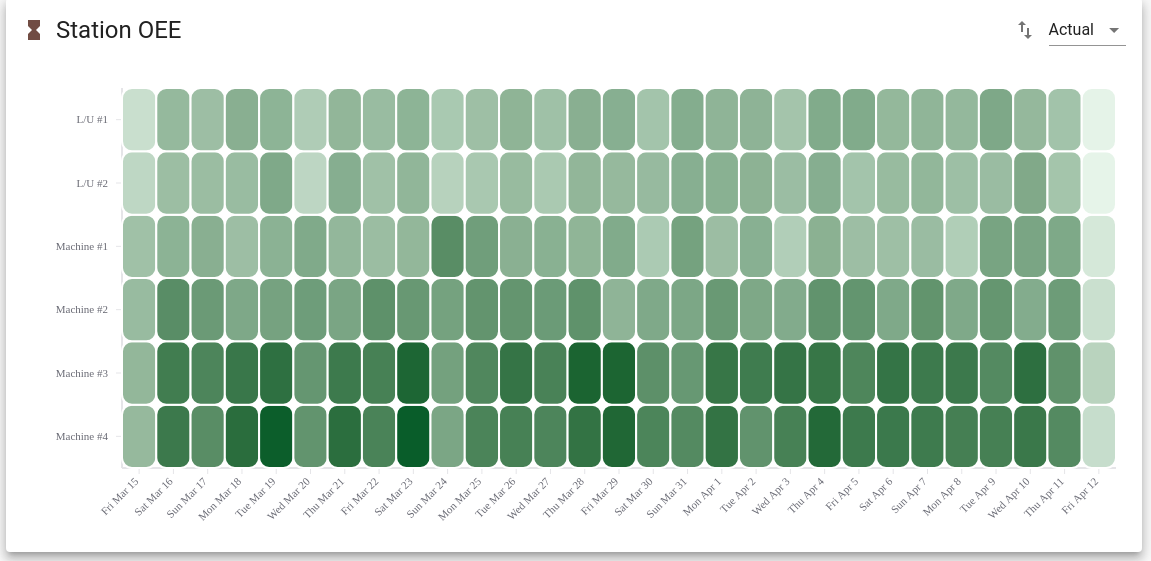
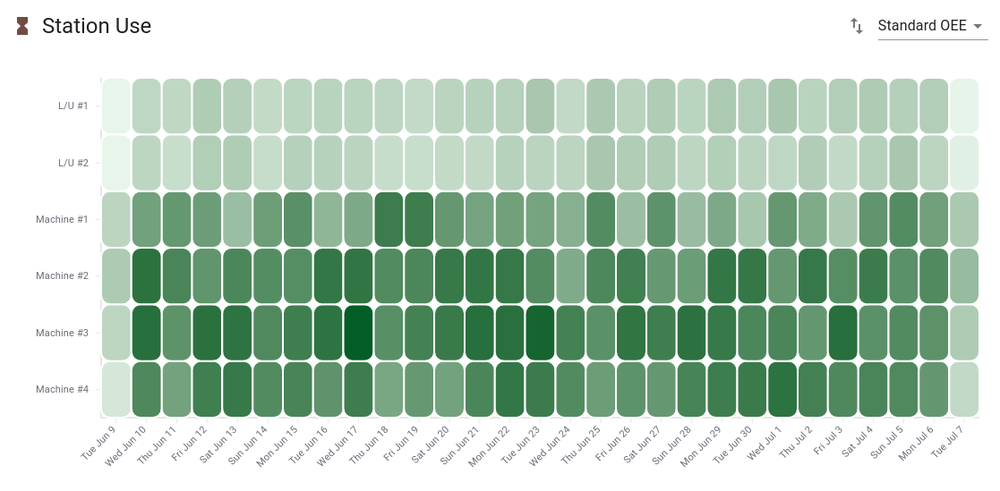
docs: update flexibility analysis page for new cycle charts

diff --git a/docs/client-flexibility-analysis.md b/docs/client-flexibility-analysis.md
@@ -26,42 +26,102 @@ helpful to find and fix bottlenecks. We suggest you review this data once a
 month and use these reports to gradually alter the flexibility or operation
 of the cell to improve the performance.
 
-## Station Cycles
+## Machine Cycles
 
-![Screenshot of station cycle chart](assets/insight-analysis-cycles.png)
+![Screenshot of station cycle chart](assets/insight-machinecycle-graph.png)
 
-The station cycle chart displays a point for each load and machine cycle. The
-cycles can be filtered by a specific part, a specific machine, a specific
-pallet or a combination. The x-axis is the days of the month and the y-axis
-is cycle time in minutes. The cycle time is the wall clock time between cycle
-start and cycle end of the machine or the wall clock time between a pallet
-arriving at the load station to the pallet leaving the load station. The
-legend at the bottom shows which colors correspond to which stations, and by
-clicking on stations in the legend you can enable or disable the viewing of
-specific stations. By clicking on a point you can obtain details about that
-specific cycle in a tooltip and open the material card for the cycle.
-Finally, the chart can be zoomed by clicking and dragging.
+The machine cycle chart displays a point for each program cycle. The cycles
+can be filtered by a specific part, a specific program, a specific machine, a
+specific pallet or a combination. The x-axis is the days of the month and the
+y-axis is cycle time in minutes. The cycle time is the wall clock time
+between program start and program end of the machine. The legend at the
+bottom shows which colors correspond to which stations, and by clicking on
+stations in the legend you can enable or disable the viewing of specific
+stations. By clicking on a point you can obtain details about that specific
+cycle in a tooltip and open the material card for the cycle. Finally, the
+chart can be zoomed by clicking and dragging.
 
-The example screenshot above is an example of a part program which might need
-improvement. We see that most of the machine cycles are fine at around 40
-minutes, but there are quite a few machine cycles longer than 40 minutes
-which likely come from program interruptions, tool problems, etc. and since
-there are so many it is likely worth it to investigate and improve the part
-program. On the other hand, if there were only a couple of machine cycles
-longer than 40 minutes, we might instead conclude that it is not worth the
-effort to spend a large amount of time focusing on this part. Finally, the
-load station cycles seem consistent at between 5 and 15 minutes so likely no
-improvements are required at the load station. If instead there were a
-large number of outlier load/unload times, we might spend some time investigating
-and potentially making operational changes. By periodically viewing this
-cycle chart for each part, you can get a feel for your specific system
-and iteratively detect and fix problems.
+When a specific part and specific program are selected, a gray background and
+black horizontal line are shown. The gray background is calculated to be the
+statistical median and deviation of the points; the middle of the gray band is
+the median of the program time and the width of the band is determined by calculating
+the median absolute deviation of the median (MAD). In contrast, the horizontal
+black line is the expected cycle time entered during scheduling and sent in
+the [scheduled jobs](creating-jobs.md). Thus if the horizontal black line differs
+significantly from the middle of the gray band, this means that likely the expected
+time used in the simulation and scheduling is incorrect.
 
-![Screenshot of station cycle table](assets/insight-analysis-cycle-table.png)
+The example screenshot above is an example of a part program which looks
+good. We see that almost all of the machine cycles are around 40 minutes,
+within the gray band and the horizontal black line and there are only a
+couple machine cycles significantly longer than 40 minutes which likely come
+from program interruptions, tool problems, etc. Since there are only a couple
+outlier points, we might instead conclude that it is not worth the effort to
+spend a large amount of time focusing on this part. If instead the graph
+showed many points outside the gray band and longer than 40 minutes, it would
+be worth it to investigate and improve the part program and tooling.
+
+![Screenshot of station cycle table](assets/insight-machinecycle-table.png)
 
 The cycles can be toggled to display the raw data in a table instead of a chart.
 The table can be filtered, sorted, and restricted to a specific date range. The resulting
 raw data can be copied to the clipboard to be pasted into a spreadsheet for further analysis.
+
+## Load/Unload Cycles
+
+![Screenshot of load station cycle chart](assets/insight-loadcycle-graph.png)
+
+The load/unload cycle chart displays a point for each load or unload event.
+The x-axis is the days of the month and the y-axis is time in minutes.
+The cycles can be filtered by a specific part or pallet. The chart will display one of
+three possible times for each operation: "L/U Occupancy", "Load (estimated)", and "Unload (estimated)".
+
+The "L/U Occupancy" chart displays a point for the wall clock time that the pallet spends at the
+load station; the time from the pallet arriving at the load station until the operator presses
+the ready button. This is the time that FMS Insight collects and stores
+so this chart displays the actual raw data collected.
+
+Despite being the actual data FMS Insight collects, the "L/U Occupancy" chart
+is hard to use to determine if there are problems or slowdowns in loading a
+specific part. The recorded time is the wall clock time from pallet arrival
+to departure so includes all the operations which occur at the load station
+which might include a load and an unload or just a load or just an unload.
+Thus, FMS Insight attempts to split the wall clock occupied time of the
+pallet at the load station among the various operations such as loading or
+unloading that occurred.
+
+For each cycle, FMS Insight splits the time the pallet spends at the load
+station among each piece of material being loaded, transfered, or unload. To
+do so, FMS Insight uses the list of material loaded/unloaded/transfered and
+calculates the expected time the operation should take based on the values
+entered into the [scheduled jobs](creating-jobs.md). The expected time is
+then used to calculate a percentage consuption for each material, and this
+percentage is then applied to the actual wall clock time of the pallet
+occupancy. For example, consider an operation where part _aaa_ is loaded and
+part _bbb_ is unloaded. The schedule says that the loading of _aaa_ should
+take 5 minutes and the unloading of _bbb_ should take 8 minutes for a total
+time the pallet should spend at the load station of 13 minutes. Now say that
+the pallet actually spent 15 minutes at the load station. The load of _aaa_
+is expected to consume `5/13 = 38%` of the cycle and the unload of _bbb_ is
+expected to consume `8/13 = 62%` of the cycle. The 38% is multipled by the
+actual wall clock time of 15 minutes to give approximately 5.8 minutes for
+the load of _aaa_. Similarly for the unload of _bbb_, 15 minutes times 62% is
+approximately 9.2 minutes. Note how the "extra" 2 minutes (15 minutes
+compared to 13 minutes) for the entire cycle is divided among both the load
+and the unload operation. This calculation is repeated separately for each
+load/unload cycle.
+
+The result of FMS Insight's estimated splitting is graphed in the "Load
+Operation (estimated)" and "Unload Operation (estimated)" charts selected in
+the top-right corner. The screenshot above shows the "Load Operation
+(estimated)" chart. For each load/unload cycle, FMS Insight splits the time
+as described above and then plots a point with the y-coordinate the
+calculated time, filtering the data to a specific part and/or pallet. (In the
+example from the previous paragraph, the points would have y-coordinate 5.8
+and 9.2 minutes.) Exactly like the machine cycles, FMS Insight calculates the
+median and median absolute deviaion of the points and plots them as a gray band
+in the background. Finally, the expected time entered into the
+[scheduled jobs](creating-jobs.md) is graphed as a horizontal black line.
 
 ## Pallet Cycles
 
@@ -85,22 +145,49 @@ to determine if there are traffic jams occuring in the pallets. In a lean,
 healthy cell, most pallet cycles should be low and reasonably consistent. If
 pallet cycle times vary wildly, there is likely taffic jams or other flow problems.
 
-## Station OEE
+## Station Use
 
-![Screenshot of Station OEE Heatmap](assets/insight-analysis-station-oee.png)
+![Screenshot of Station Use Heatmap](assets/insight-analysis-station-oee.png)
 
-The Station OEE heatmap shows the station overall equipment effectiveness (OEE)
-over the month. On the x-axis are the days of the month and on the y-axis are
-the machines and load stations. For each station and each day, FMS Insight adds
-up the expected operation time for each part cycle and then divides by 24 hours
-to obtain a percentage that the station was busy with productive work. (If station cycles
-were longer than expected, this extra time is not counted in the OEE. Thus the Station OEE
-should only be focused on seriously once the station cycles are mostly stable at their
-expected cycle time.) For each grid cell in the chart, the OEE percentage is drawn
-with a color with darker colors higher OEE and lighter colors lower OEE. A grid cell
-can be moused over to obtain extra information in a tooltip.
+The Station Use heatmap shows the station usage over the month. On the x-axis
+are the days of the month and on the y-axis are the machines and load
+stations. There are three charts which can be selected in the top-right
+corner: "Standard OEE", "Planned OEE", and "Occupied".
 
-The Station OEE heatmap helps visualize how balanced the machines were loaded over the month.
+- The "Standard OEE" chart computes the actual overall equipment effectiveness (OEE) over the month.
+  For each station and each day, FMS Insight uses the log of parts produced and adds up the expected
+  operation time for each part cycle and then divides by 24 hours
+  to obtain a percentage that the station was busy with productive work. (If station cycles
+  were longer than expected, this extra time is not counted in the OEE.) For each grid cell in the chart, the OEE percentage is drawn
+  with a color with darker colors higher OEE and lighter colors lower OEE. A grid cell
+  can be moused over to obtain extra information in a tooltip.
+
+- The "Planned OEE" chart displays the simulated station usage for the [downloaded jobs](creating-jobs.md) and
+  is the prediction of what the OEE should look like based on all the schedules for the month.
+
+- The "Occupied" chart computes the total percentage of time that a pallet is occupying the station. For
+  each station and each day, FMS Insight uses the log of events to determine when a pallet arrives
+  and departs from each station. The total time a pallet is at the station is then divided by 24 hours
+  to obtain a percentage that the station was occupied. These percentages are then charted with darker colors
+  higher occupancy.
+
+The Station Use heatmaps are useful for several observations. First, the Occupied heatmap can be used to
+determine the overall usage of the load station. If the load station occupied percentages are very high,
+it can indicate that the load station is a bottleneck and preventing the cell from performing useful work.
+In a healthy cell, the load stations should be faster than the machines,
+so the load stations should be empty at least part of the time waiting for machining to finish.
+
+The difference between the Standard OEE and Occupied heatmaps can be useful to determine if there is a lot
+of cycle interruptions. For example, if a program is expected to take 25 minutes but spends 40 minutes at
+the machine, the Standard OEE heatmap will be credited with 25 minutes and the Occupied heatmap will be
+credited with 40 minutes, causing the Occupied heatmap to be darker in color for that day. Now, cycle
+interruptions do occasionally happen; comparing the Standard OEE and Occupied heatmaps allows you to
+determine if these are one-off events or a consistent problem. If most days are darker on the Occupied
+heatmap, the cycle interruptions should be investigated in more detail. (For example, look at individual parts on the
+machine cycle charts, ensure the expected time entered into the schedule is actually correct, investigate
+machine maintenance records, etc.)
+
+Finally, the Standard OEE heatmap helps visualize how balanced the machines were loaded over the month.
 We want to see all the machines consitantly roughly the same color. If you see that
 a machine has a lighter color for a couple days, that indiciates either the machine was down or
 that the daily mix for that day did not have enough flexibility. You should then consider
